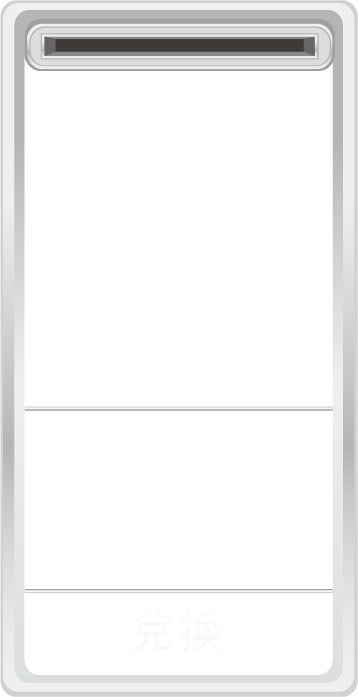
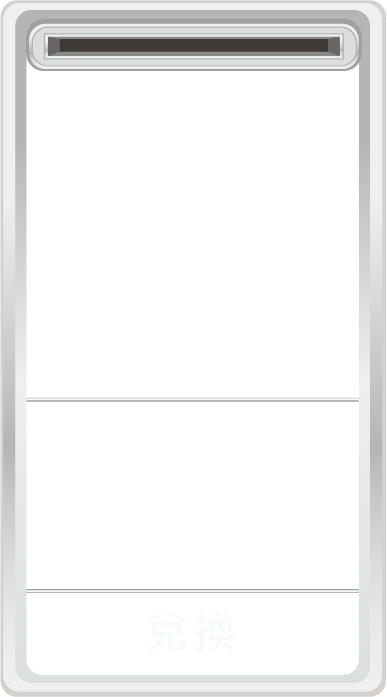
d

Changed region(s): [[0.0615, 0.5725, 0.9218, 0.6026], [0.9218, 0.0904, 0.9525, 0.1205]]

diff --git a/js/resize.js b/js/resize.js
@@ -31,8 +31,8 @@ function convertSizeALL(className) {
     $(".background").css({ width: Math.round(w * sRatio), height: Math.round(h * sRatio) });
     $(".showbox").css({ width: Math.round(1480 * sRatio), height: Math.round(697 * sRatio) });
     $('.changeMoneyAreaTop').css({ width: Math.round(359 * sRatio), height: Math.round(31 * sRatio) });
-    $('.changeMoneyAreaBottom').css({ width: Math.round(358 * sRatio), height: Math.round(697 * sRatio) });
-    $('.change_btn').css({ width: Math.round(309 * sRatio), height: Math.round(83 * sRatio) });
+    $('.changeMoneyAreaBottom').css({ width: Math.round(385 * sRatio), height: Math.round(697 * sRatio) });
+    $('.change_btn').css({ width: Math.round(333 * sRatio), height: Math.round(83 * sRatio) });
     $('.close_btn').css({ width: Math.round(76 * sRatio), height: Math.round(77 * sRatio) });
     $('.useteach').css({ width: Math.round(263 * sRatio), height: Math.round(78 * sRatio) });
     $('.countpic').css({ width: Math.round(262 * sRatio), height: Math.round(163 * sRatio) });

diff --git a/css/block.css b/css/block.css
@@ -52,7 +52,7 @@ body {
     background-size: cover;
     position: absolute;
     top: 1.7%;
-    left: 80%;
+    left: 79.345%;
 }
 
 .change_btn {
@@ -60,7 +60,7 @@ body {
     background-size: cover;
     position: absolute;
     top: 67.5%;
-    left: 81.25%;
+    left: 80.7%;
     cursor: pointer;
 }
 
